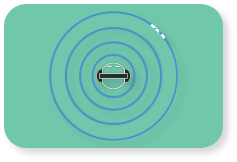
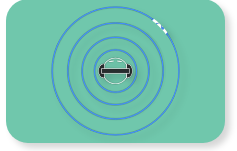
Listener interface displays sounde source and gyro rotation.

diff --git a/src/interface.py b/src/interface.py
@@ -16,7 +16,7 @@ class Interface:
 
     # This is a static method. You can tell, because if you look carefully, it has a decorator "@staticmethod" above it.
     # The reason it is static is because back in the day when it wasn't static, pycharm would be like:
-    # "Yo make this static!" It does some stuff like if user is stupid it tells them that it's not their fault etc.
+    # "Yo make this static!" It does some stuff like if users are stupid it tells them that it's not their fault etc.
 
     @staticmethod
     def show_error_message(message):
@@ -54,7 +54,7 @@ class Interface:
 
             return int((quarter - 1) * 90 + int(quarter == 2 or quarter == 4) * angle + int(quarter == 1 or quarter == 3) * (
                         90 - angle))
-            # Just trust that it gets the angle. And yes it's probably overcomplicated but, but.. I dunno.
+            # Just trust that it gets the angle. And yes it's probably overcomplicated but, but.. whatever.
 
         def get_euclidean_distance(self, surface, target):  # The usual distance, you know, the pythagoras theorem..
             abs_pos = self.get_abs_pos(surface)
@@ -96,9 +96,12 @@ class Interface:
             self.pressed = False
             self.clicked = False
 
-        def display(self, surface, rotate_value=0, scale_value=1):
+        def display(self, surface, rotate_value=0, scale_value=1, alt_pos=None):
             image = pygame.transform.rotozoom(self.image, rotate_value, self.initial_scale_value * scale_value)
-            image_rect = image.get_rect(center=self.get_abs_pos(surface))
+            if not alt_pos:
+                image_rect = image.get_rect(center=self.get_abs_pos(surface))
+            else:
+                image_rect = image.get_rect(center=alt_pos)
             surface.blit(image, image_rect)
 
         def replace(self, other):
@@ -133,29 +136,30 @@ class CreatorInterface(Interface):
 
         self.audio_manager = self.AudioManager(
             dict(
-                play_button=self.Button(pygame.image.load('../dependencies/images/play_button.png'), [0.872, 0.300]),
-                pause_button=self.Button(pygame.image.load('../dependencies/images/pause_button.png'), [0.872, 0.300],
+                play_button=self.Button(pygame.image.load('../dependencies/images/play_button.png'), [0.850, 0.300]),
+                pause_button=self.Button(pygame.image.load('../dependencies/images/pause_button.png'), [0.850, 0.300],
                                          False),
-                save_button=self.Button(pygame.image.load('../dependencies/images/save_button.png'), [0.872, 0.565]),
-                open_button=self.Button(pygame.image.load('../dependencies/images/1open_file.png'), [0.9, 0.9]),
+                save_button=self.Button(pygame.image.load('../dependencies/images/save_button.png'), [0.900, 0.565]),
+                open_button=self.Button(pygame.image.load('../dependencies/images/open_file_button.png'), [0.630, 0.565]),
                 edit_button=self.Button(pygame.image.load('../dependencies/images/edit_button.png'),
-                                        [0.660, 0.565]),
+                                        [0.765, 0.565]),
                 editing_button=self.Button(pygame.image.load('../dependencies/images/editing_button.png'),
-                                           [0.660, 0.565], False),
+                                           [0.765, 0.565], False),
                 rec_start_button=self.Button(pygame.image.load('../dependencies/images/record_start_button.png'),
-                                             [0.660, 0.300]),
+                                             [0.680, 0.300]),
                 rec_stop_button=self.Button(pygame.image.load('../dependencies/images/record_stop_button.png'),
-                                            [0.660, 0.300], False)
+                                            [0.680, 0.300], False)
             ),
             dict(
-                rec_text=self.TextField([0.658, 0.115], "Record", 60, True),
-                play_text=self.TextField([0.870, 0.115], "Play", 60, True),
-                edit_text=self.TextField([0.658, 0.652], "Edit audio", 30, True),
-                save_text=self.TextField([0.870, 0.652], "Save", 30, True),
-                record_time_text=self.TextField([0.759, 0.780], "Recorded time", 35, True),
-                playback_timer=self.TextField([0.7, 0.880], "00:00", 75, True),  # Martin Use this
-                recording_timer=self.TextField([0.82, 0.880], "00:00", 75, True),  # and this
-                slash_symbol=self.TextField([0.76, 0.880], "/", 75, True),
+                rec_text=self.TextField([0.680, 0.115], "Record", 60, True),
+                play_text=self.TextField([0.850, 0.115], "Play", 60, True),
+                edit_text=self.TextField([0.765, 0.652], "Edit audio", 30, True),
+                save_text=self.TextField([0.900, 0.652], "Save", 30, True),
+                open_text=self.TextField([0.630, 0.652], "Open file", 30, True),
+                record_time_text=self.TextField([0.765, 0.780], "Recorded time", 35, True),
+                playback_timer=self.TextField([0.71, 0.880], "00:00", 75, True),
+                recording_timer=self.TextField([0.82, 0.880], "00:00", 75, True),
+                slash_symbol=self.TextField([0.765, 0.880], "/", 75, True),
 
                 n_is_for_narrator=self.TextField([0.269, 0.53], "Press 'N' for Narrator", 25, True),
                 anechoic_text=self.TextField([0.114, 0.974], "Anechoic", 30, True),
@@ -263,6 +267,7 @@ class CreatorInterface(Interface):
                     position_time = edit_state["timer"].get_time()
                     self.full_filter_data.append((self.previous_filter_data, position_time))
 
+
         def get_filter_data(self):
             return np.array(self.full_filter_data)
 
@@ -285,8 +290,6 @@ class CreatorInterface(Interface):
 
             def get_time(self):
                 return time.time() - self.initial_time if self.active else 0.0
-
-                # return self.current_time
 
         def __init__(self, buttons, text_fields):
             self.buttons = buttons
@@ -435,12 +438,10 @@ class ListenerInterface(Interface):
     def __init__(self):
         super().__init__()
         pygame.display.set_caption("3DAB LISTENER")
-        self.screen = pygame.display.set_mode((480, 852), 1, 16)
+        self.screen = pygame.display.set_mode((414, 738), 1, 16)
         self.screen_ratio_to_default = self.screen.get_width() / self.DEFAULT_DIMS[0]
 
         self.Widget.initial_scale_value = self.screen_ratio_to_default
-
-        self.pulse_sound_location = (0.7, 0.4)
 
         self.player_controller = self.PlayerController(dict(
             jump_forward=self.Button(pygame.image.load('../dependencies/images/1jump_forward.png'), [0.8, 0.67]),
@@ -455,7 +456,7 @@ class ListenerInterface(Interface):
 
         ),
 
-            self.Button(pygame.image.load('../dependencies/images/1pulse.png'), self.pulse_sound_location),
+            self.Button(pygame.image.load('../dependencies/images/1pulse.png'), [0.5, 0.25]),
             self.Button(pygame.image.load('../dependencies/images/1slider.png'), [0.5, 0.8]),
             self.Button(pygame.image.load('../dependencies/images/1background.png'), [0.5, 0.5]),
             self.Button(pygame.image.load('../dependencies/images/1head.png'), [0.5, 0.25])
@@ -464,6 +465,9 @@ class ListenerInterface(Interface):
     class PlayerController:
 
         def __init__(self, buttons, pulse, slider, background, head):
+
+            self.pulse_polar = dict(angle=-1, radius=0)
+            self.head_rot = 0
 
             self.pulse = pulse
             self.buttons = buttons
@@ -478,9 +482,13 @@ class ListenerInterface(Interface):
         def display(self, surface):
 
             self.background.display(surface)
-            self.head.display(surface)
+            self.head.display(surface, self.head_rot)
             self.slider.display(surface)
-            self.pulse.display(surface)
+
+            if self.pulse_polar["angle"] != -1:
+                pulse_pos = self.pulse.get_moved_by_polar(surface,
+                            (self.head.radius * self.pulse_polar["radius"] * 4, self.pulse_polar["angle"]))
+                self.pulse.display(surface, 0, 1, pulse_pos)
 
             selection_pos = (self.slider_position, self.slider.get_abs_pos(surface)[1])
             pygame.draw.circle(surface, (112, 199, 172), selection_pos, 20)

diff --git a/src/audio_io.py b/src/audio_io.py
@@ -10,7 +10,7 @@ class AudioIOThread(threading.Thread):
     def __init__(self):
         threading.Thread.__init__(self)
         self.sampling_freq = 44100
-        self.chunk_duration = 0.1  # Use the shortest chunk duration your pc can handle.
+        self.chunk_duration = 0.1
         self.chunk_samples = int(self.sampling_freq * self.chunk_duration)
 
 
@@ -24,7 +24,6 @@ class RecordingThread(AudioIOThread):
                                          callback=self.callback)
 
     def callback(self, indata, frames, time, status):
-
         if self.rec_data.size == 0:
             self.rec_data = indata
         else:
@@ -72,6 +71,8 @@ class DynamicPlaybackThread(PlaybackThread):
         self.chunk_index = 0
         self.pos_index = 0
 
+        self.current_position = dict(angle=-1, radius=0)
+
         self.play_stream = sd.OutputStream(samplerate=self.sampling_freq, channels=2, blocksize=self.chunk_samples,
                                            callback=self.callback)
         self.gyroscope = GyroThread()
@@ -100,18 +101,18 @@ class DynamicPlaybackThread(PlaybackThread):
         start_index = self.chunk_index * frames
         end_index = (self.chunk_index + 1) * frames
 
-        azimuth_angle = self.positional_data[self.pos_index][0]
-        current_radius = self.positional_data[self.pos_index][1]
+        self.current_position["angle"] = self.positional_data[self.pos_index][0]
+        self.current_position["radius"] = self.positional_data[self.pos_index][1]
 
-        if azimuth_angle != -1 and self.gyroscope.gyro_connected and self.gyroscope.gyro_is_ready():
+        if self.current_position["angle"] != -1 and self.gyroscope.gyro_connected and self.gyroscope.gyro_is_ready():
             gyro_data = self.gyroscope.get_gyro_data()
-            current_angle = int(abs(azimuth_angle - gyro_data)) if azimuth_angle > gyro_data else int(
-                (azimuth_angle + gyro_data) % 360)
+            angle = int(abs(self.current_position["angle"] - gyro_data)) if self.current_position["angle"] > gyro_data else int(
+                (self.current_position["angle"] + gyro_data) % 360)
         else:
-            current_angle = azimuth_angle
+            angle = self.current_position["angle"]
 
         outdata[:, :], self.filter_state = \
-            audio_processing.filter_binaural(self.play_data[start_index:end_index, 0], current_angle, current_radius, self.filter_state)
+            audio_processing.filter_binaural(self.play_data[start_index:end_index, 0], angle, self.current_position["radius"], self.filter_state)
 
         self.chunk_index += 1
 
@@ -124,6 +125,12 @@ class DynamicPlaybackThread(PlaybackThread):
 
         self.play_data = play_data
         self.positional_data = positional_data
+
+    def get_current_position(self):
+        return self.current_position
+
+    def get_current_rotation(self):
+        return self.gyroscope.get_gyro_data() if self.gyroscope.gyro_connected and self.gyroscope.gyro_is_ready() else 0
 
 
 class GyroThread(threading.Thread):
@@ -141,15 +148,12 @@ class GyroThread(threading.Thread):
             self.ser.open()
             while self.ser.is_open:
                 line = self.ser.readline().decode()
-
-                # the third message, (0,1,2), is waiting for the arduino to receive a message so we send it
+                # the third message, is waiting for the arduino to receive a message so we send it
                 if len(self.received) == 3:
                     # Send a signal to the arduino to get the gyroscope to work
                     self.ser.write(str.encode(" "))
-
                 # waiting for the gyroscope to be ready
                 if len(self.received) < 8:
-                    # time.sleep(1)
                     # The first 3 messages are useless since it is just setup.
                     self.received.append(line)
                     print("Hang tight almost there!")

diff --git a/src/audio_processing.py b/src/audio_processing.py
@@ -77,7 +77,6 @@ def unpack_data(rec_data, filter_data):
 
 def apply_reverb_filtering(input_signal, reverbs_data):
 
-    input_signal = np.divide(input_signal, np.max(np.abs(input_signal)))
     output_signal = np.zeros([len(input_signal), 1])
 
     elapsed_duration = 0
@@ -93,6 +92,8 @@ def apply_reverb_filtering(input_signal, reverbs_data):
         output_signal[start_index:end_index] = \
             filter_reverb(input_signal[start_index:end_index, 0], reverb_type)
 
+    output_signal = np.divide(output_signal, 1.11 * np.max(np.abs(output_signal)))
+
     return output_signal
 
 
@@ -102,20 +103,16 @@ def filter_reverb(input_chunk, reverb_type):
     if reverb_type == "anechoic":
         output_chunk[:, 0] = input_chunk
     else:
-        response = fftconvolve(input_chunk, REVERB_IR[reverb_type], mode="full")[0: len(input_chunk)]
-        response = np.divide(response, np.abs(np.max(response)))
-
-        output_chunk[:, 0] = response
+        output_chunk[:, 0] = fftconvolve(input_chunk, REVERB_IR[reverb_type], mode="full")[0: len(input_chunk)]
 
     return output_chunk
 
 
 def apply_binaural_filtering(input_signal, positional_data):
 
-    input_signal = np.divide(input_signal, np.max(np.abs(input_signal)))
     output_signal = np.zeros([len(input_signal), 2])
 
-    filter_state = None
+    filter_state = np.zeros([2, 2047])
     elapsed_duration = 0
 
     for position in positional_data:
@@ -130,7 +127,7 @@ def apply_binaural_filtering(input_signal, positional_data):
         output_signal[start_index:end_index, :], filter_state = \
             filter_binaural(input_signal[start_index:end_index, 0], current_angle, current_radius, filter_state)
 
-    output_signal = np.divide(output_signal, np.max(np.abs(output_signal)))  # Normalize ||output||
+    output_signal = np.divide(output_signal, 1.11 * np.max(np.abs(output_signal)))  # Normalize ||output||
     return output_signal
 
 
@@ -148,10 +145,10 @@ def filter_binaural(input_chunk, angle, radius, filter_state):
         if filter_state is None:
             filter_state = np.zeros([2, 2047])
 
-        output_chunk[:, 0], filter_state[0] = \
+        output_chunk[:, 0], filter_state[0, :] = \
             lfilter(ir_ear_right, 1, input_chunk, zi=filter_state[0])
 
-        output_chunk[:, 1], filter_state[1] = \
+        output_chunk[:, 1], filter_state[1, :] = \
             lfilter(ir_ear_left, 1, input_chunk, zi=filter_state[1])
 
     return output_chunk, filter_state

diff --git a/src/listener.py b/src/listener.py
@@ -30,8 +30,8 @@ def load_dependencies():
 
     return audio_data, filter_data
 
-
 while interface.running:
+
     interface.update()
 
     if interface.player_controller.buttons["open_file_button"].clicked:
@@ -52,8 +52,14 @@ while interface.running:
             interface.show_error_message("Error, no file loaded.")
 
     elif interface.player_controller.playback_state["in_process"]:
+
+        interface.player_controller.pulse_polar = playback_thread.get_current_position()
+        interface.player_controller.head_rot = playback_thread.get_current_rotation()
+
         if binaural_data["audio_data"] is not None:
             if playback_thread.done:
+                interface.player_controller.pulse_polar["angle"], interface.player_controller.pulse_polar["radius"] = -1, 0
+                interface.player_controller.head_rot = 0
                 interface.player_controller.playback_state["stopped"] = True
                 playback_thread.done = False
 

diff --git a/src/creator.py b/src/creator.py
@@ -1,5 +1,6 @@
 from src import interface, audio_io, audio_processing, files_rw
 from sounddevice import PortAudioError
+import soundfile as sf
 
 interface = interface.CreatorInterface()
 file_manager = files_rw.FileManager()
@@ -15,6 +16,7 @@ while interface.running:
     interface.update()
 
     if interface.audio_manager.recording_state["started"]:
+        print("Recording started")
         try:
             recording_thread = audio_io.RecordingThread()
             recording_thread.start()
@@ -96,6 +98,7 @@ while interface.running:
             interface.show_error_message("Error no file found")
 
     if interface.audio_manager.buttons["save_button"].clicked:
+
         try:
             file_manager.save_file(reverb_data["audio_data"], binaural_data["filter_data"])
             print("Saved!")
